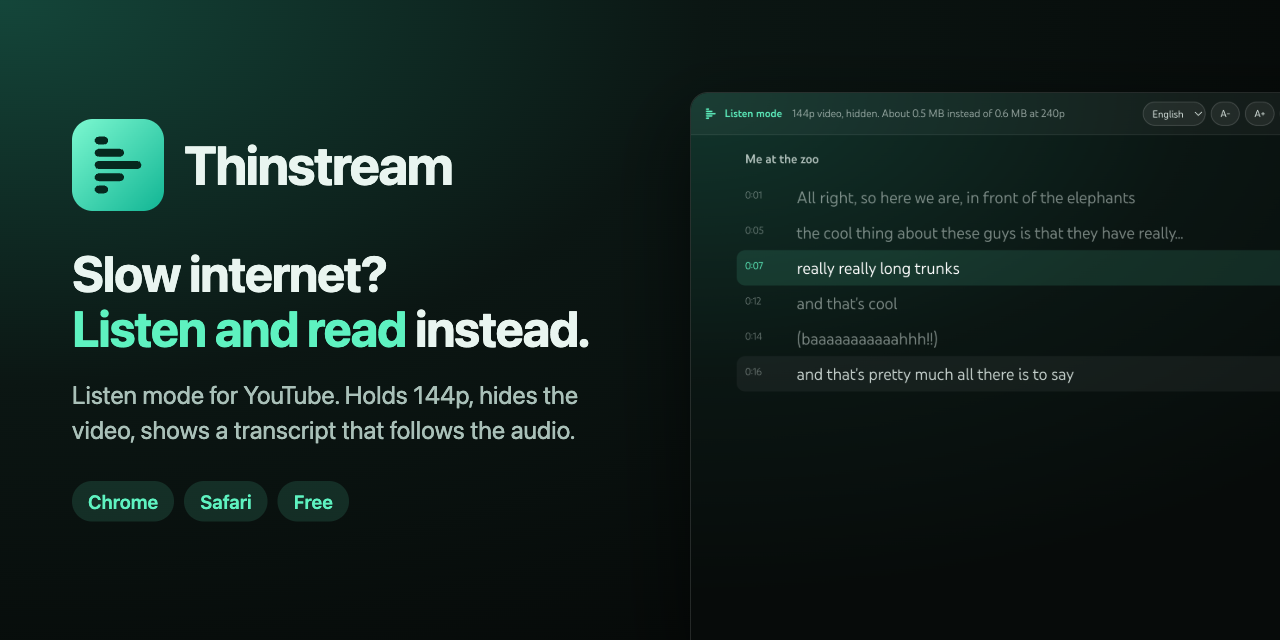
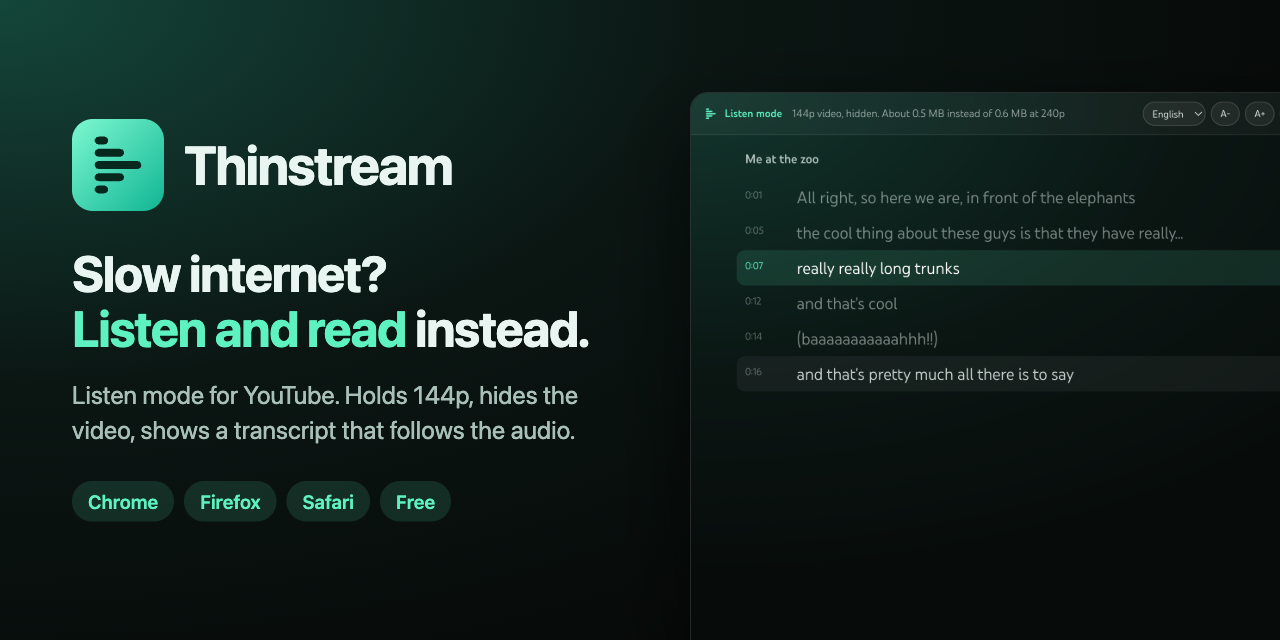
Add Firefox build
Same code with a Firefox manifest, made by scripts/build.sh.
Tested in Firefox 160. README, site and release notes updated.

Changed region(s): [[0.1562, 0.75, 0.375, 0.8125]]

diff --git a/docs/index.html b/docs/index.html
@@ -4,8 +4,8 @@
 <meta charset="utf-8">
 <meta name="viewport" content="width=device-width, initial-scale=1">
 <title>Thinstream: listen to YouTube and read the transcript on slow internet</title>
-<meta name="description" content="Free Chrome and Safari extension for slow internet. One click holds a YouTube video at 144p, hides it, and shows a transcript that follows the audio. No account, no tracking.">
-<meta name="keywords" content="YouTube audio only extension, YouTube transcript extension, YouTube data saver, listen to YouTube without video, YouTube slow internet, YouTube low bandwidth, Chrome extension, Safari extension, YouTube listen mode">
+<meta name="description" content="Free Chrome, Firefox and Safari extension for slow internet. One click holds a YouTube video at 144p, hides it, and shows a transcript that follows the audio. No account, no tracking.">
+<meta name="keywords" content="YouTube audio only extension, YouTube transcript extension, YouTube data saver, listen to YouTube without video, YouTube slow internet, YouTube low bandwidth, Chrome extension, Firefox add-on, Safari extension, YouTube listen mode">
 <meta name="author" content="Alireza Toghiani">
 <link rel="canonical" href="https://alireza12t.github.io/thinstream/">
 <link rel="icon" type="image/svg+xml" href="assets/logo.svg">
@@ -14,14 +14,14 @@
 <meta property="og:type" content="website">
 <meta property="og:site_name" content="Thinstream">
 <meta property="og:title" content="Thinstream: listen mode for YouTube">
-<meta property="og:description" content="On slow internet, press one button. The video drops to 144p and hides, and you get the audio with a transcript that follows along. Free for Chrome and Safari.">
+<meta property="og:description" content="On slow internet, press one button. The video drops to 144p and hides, and you get the audio with a transcript that follows along. Free for Chrome, Firefox and Safari.">
 <meta property="og:url" content="https://alireza12t.github.io/thinstream/">
 <meta property="og:image" content="https://alireza12t.github.io/thinstream/assets/og.png">
 <meta property="og:image:width" content="1280">
 <meta property="og:image:height" content="640">
 <meta name="twitter:card" content="summary_large_image">
 <meta name="twitter:title" content="Thinstream: listen mode for YouTube">
-<meta name="twitter:description" content="Audio plus a synced transcript when your internet is slow. Free for Chrome and Safari.">
+<meta name="twitter:description" content="Audio plus a synced transcript when your internet is slow. Free for Chrome, Firefox and Safari.">
 <meta name="twitter:image" content="https://alireza12t.github.io/thinstream/assets/og.png">
 
 <script type="application/ld+json">
@@ -30,9 +30,9 @@
   "@type": "SoftwareApplication",
   "name": "Thinstream",
   "alternateName": "Thinstream: Listen Mode for YouTube",
-  "description": "A free browser extension for Chrome and Safari that holds a YouTube video at 144p, hides the picture, and shows a transcript that follows the audio. Made for slow or metered internet.",
+  "description": "A free browser extension for Chrome, Firefox and Safari that holds a YouTube video at 144p, hides the picture, and shows a transcript that follows the audio. Made for slow or metered internet.",
   "applicationCategory": "BrowserApplication",
-  "operatingSystem": "Chrome, Edge, Brave, Safari on macOS",
+  "operatingSystem": "Chrome, Edge, Brave, Firefox, Safari on macOS",
   "softwareVersion": "1.0.0",
   "datePublished": "2026-11-12",
   "url": "https://alireza12t.github.io/thinstream/",
@@ -73,7 +73,7 @@
     { "@type": "Question", "name": "Does Thinstream collect data?",
       "acceptedAnswer": { "@type": "Answer", "text": "No. It makes no network requests of its own. Settings stay in your browser." } },
     { "@type": "Question", "name": "Which browsers does Thinstream work in?",
-      "acceptedAnswer": { "@type": "Answer", "text": "Chrome and other Chromium browsers such as Edge, Brave and Arc, and Safari on Mac through an Xcode project. An iPhone and iPad build is included but not yet tested on a device." } }
+      "acceptedAnswer": { "@type": "Answer", "text": "Chrome and other Chromium browsers such as Edge, Brave and Arc, Firefox 140 or newer, and Safari on Mac through an Xcode project. An iPhone and iPad build is included but not yet tested on a device." } }
   ]
 }
 </script>
@@ -139,9 +139,10 @@
 <header>
   <img class="logo" src="assets/logo.svg" width="84" height="84" alt="Thinstream logo">
   <h1>Listen to YouTube when your internet is slow</h1>
-  <p class="lead">Thinstream is a free extension for Chrome and Safari. Press one button and the video drops to 144p and hides. You get the audio and a transcript that follows along.</p>
+  <p class="lead">Thinstream is a free extension for Chrome, Firefox and Safari. Press one button and the video drops to 144p and hides. You get the audio and a transcript that follows along.</p>
   <div class="cta">
     <a class="btn primary" href="https://github.com/alireza12t/thinstream/releases/latest">Download for Chrome</a>
+    <a class="btn" href="https://github.com/alireza12t/thinstream#firefox">Firefox</a>
     <a class="btn" href="https://github.com/alireza12t/thinstream#safari-on-mac">Safari on Mac</a>
     <a class="btn" href="https://github.com/alireza12t/thinstream">GitHub</a>
   </div>
@@ -181,7 +182,7 @@
   <li>Click Load unpacked and pick the unzipped folder.</li>
   <li>Open a YouTube video and press the Thinstream button in the player.</li>
 </ol>
-<p>Works in Chrome, Edge, Brave and Arc. For Safari on Mac, build the Xcode project in the repo. <a href="https://github.com/alireza12t/thinstream#install">Full steps</a>.</p>
+<p>Works in Chrome, Edge, Brave and Arc. Firefox has its own zip in the same release. For Safari on Mac, build the Xcode project in the repo. <a href="https://github.com/alireza12t/thinstream#install">Full steps</a>.</p>
 
 <h2>How it compares</h2>
 <div class="scroll">

diff --git a/HISTORY.md b/HISTORY.md
@@ -4,7 +4,7 @@ Read this first. Update the open items when something finishes.
 
 ## What it is
 
-Browser extension for Chrome and Safari. On YouTube it holds the video at 144p, hides it, and shows a synced transcript in the player. For slow or metered internet. Repo: github.com/alireza12t/thinstream. Site: alireza12t.github.io/thinstream (GitHub Pages from `docs/`).
+Browser extension for Chrome, Firefox and Safari. On YouTube it holds the video at 144p, hides it, and shows a synced transcript in the player. For slow or metered internet. Repo: github.com/alireza12t/thinstream. Site: alireza12t.github.io/thinstream (GitHub Pages from `docs/`).
 
 ## State
 
@@ -19,12 +19,14 @@ Browser extension for Chrome and Safari. On YouTube it holds the video at 144p, 
 - **Safari does not support `"world": "MAIN"` in the manifest** (the converter warns). So `content.js` asks `background.js` to inject `page.js` with `scripting.executeScript`, and falls back to a script tag. `page.js` exits if it finds itself in the extension world.
 - **No innerHTML anywhere.** YouTube enforces Trusted Types.
 - **Safari project references `../../../extension`**, nothing is copied. New files under `extension/src` are picked up. The project file is the new `project.xcproj` JSON format.
+- **Firefox is the same code with a patched manifest**, made by `scripts/build.sh` into `dist/firefox/` and a zip: `background.scripts` instead of a service worker, plus a gecko id (`thinstream@alireza12t.github.io`), min version 140 and `data_collection_permissions: none`. Firefox supports `"world": "MAIN"`, so it takes the Chrome path. Version stayed 1.0.0 (Alireza did not ask for a bump); the Firefox zip was added to the v1.0.0 release.
 - The data estimate uses the byte sizes in the player response for that video. Baseline is the quality the player was on, else 720p.
 
 ## What was tested
 
 - Headless Chrome for Testing with the unpacked extension (`puppeteer-core`): button mount, 144p, panel, restore of quality and captions, popup, and a copy of the extension without the `world` key to exercise the Safari path. All passed.
 - Headless Chrome gets an empty caption response from YouTube (bot check), so the transcript was tested by running the same `page.js` and `content.js` on live YouTube in the Claude browser pane: transcript load, language switch, click to seek, video change, turn off. All passed.
+- Firefox 160 (test binary from `@puppeteer/browsers`, driven with `puppeteer-core`): add-on installs, button, 144p, hide, restore, transcript rendering, click to seek, text size all passed. `web-ext lint`: 0 errors. Popup not opened in Firefox. To launch Firefox from a sandboxed shell set `CFFIXED_USER_HOME` and `HOME` to a scratch folder, otherwise it dies with "Could not find profile folder".
 - Safari: `Thinstream (macOS)` and `Thinstream (iOS)` compile with `CODE_SIGNING_ALLOWED=NO`. **Not run inside Safari.**
 - m.youtube.com in mobile emulation: 144p, panel and the floating button work. The caption response came back empty in emulation, so the transcript on a real phone is unknown.
 
@@ -32,6 +34,7 @@ Browser extension for Chrome and Safari. On YouTube it holds the video at 144p, 
 
 - [ ] Run it in Safari on the Mac once (Xcode, Run, enable in Safari settings) and confirm the transcript loads.
 - [ ] Try the iOS build on a real iPhone. The panel is cramped at phone size, it probably wants to sit below the player.
+- [ ] Firefox: submit to addons.mozilla.org for signing so it installs for good. It is free but needs Alireza's Mozilla account. Until then it loads as a temporary add-on.
 - [ ] Chrome Web Store listing. Needs the one time $5 developer fee, so it is Alireza's call.
 - [ ] Upload `assets/social-preview.png` in the GitHub repo settings (Social preview). There is no API for it.
 - [ ] Demo video (separate session).
@@ -39,6 +42,6 @@ Browser extension for Chrome and Safari. On YouTube it holds the video at 144p, 
 
 ## Handy
 
-- `./scripts/build.sh` makes `dist/thinstream-chrome-<version>.zip`.
+- `./scripts/build.sh` makes the Chrome zip, the Firefox zip and `dist/firefox/`.
 - `./scripts/publish.sh` creates the repo, topics, Pages and the release. Safe to run again.
 - `node scripts/dev-server.mjs` serves the repo on localhost:8767 (also the `thinstream` entry in the parent folder's `.claude/launch.json`).

diff --git a/README.md b/README.md
@@ -6,7 +6,7 @@
 
 <p align="center">
   <b>Listen to YouTube and read the transcript when your internet is slow.</b><br>
-  A free browser extension for Chrome and Safari. One click drops the video to 144p, hides it, and shows a transcript that follows the audio.
+  A free browser extension for Chrome, Firefox and Safari. One click drops the video to 144p, hides it, and shows a transcript that follows the audio.
 </p>
 
 <p align="center">
@@ -67,6 +67,14 @@ No, and I would rather say so. YouTube's web player now gets audio and video thr
 
 It is not on the Chrome Web Store yet.
 
+### Firefox
+
+1. Download `thinstream-firefox-1.0.0.zip` from the [latest release](https://github.com/alireza12t/thinstream/releases/latest).
+2. Open `about:debugging#/runtime/this-firefox`.
+3. Click **Load Temporary Add-on** and pick the zip.
+
+Firefox removes a temporary add-on when it restarts, so you load it again next time. A permanent install needs Mozilla to sign it, and it is not on addons.mozilla.org yet. Needs Firefox 140 or newer.
+
 ### Safari on Mac
 
 Safari extensions ship inside a small Mac app, so this one is built with Xcode.
@@ -98,7 +106,7 @@ Checked on 2026-11-12 from each tool's own store page or site. If something here
 
 | Tool | Price | Browsers | Lowers data use | Hides the video | Transcript that follows the audio |
 |---|---|---|---|---|---|
-| **Thinstream** | Free | Chrome, Safari | Yes, holds 144p | Yes | Yes |
+| **Thinstream** | Free | Chrome, Firefox, Safari | Yes, holds 144p | Yes | Yes |
 | [Audio Only Youtube](https://chromewebstore.google.com/detail/audio-only-youtube/pkocpiliahoaohbolmkelakpiphnllog) | Free | Chrome | Aims for audio only | Yes | No |
 | [Music Mode for YouTube](https://chromewebstore.google.com/detail/music-mode-for-youtube/abbpaepbpakcpipajigmlpnhlnbennna) | Free | Chrome, Firefox | Lowers the quality of hidden videos | Yes | No |
 | [Vinegar](https://apps.apple.com/us/app/vinegar-tube-cleaner/id1591303229) | $1.99 | Safari on iPhone, iPad, Mac | Has an audio only option | Replaces the player | No, subtitles only |
@@ -167,7 +175,8 @@ Yes. Free for any noncommercial use. See [License](#license).
 - `extension/src/page.js` runs inside the YouTube page. It asks the player for its lowest quality with the player's own API, turns on the caption track so the player fetches it, and reads that response.
 - `extension/src/content.js` draws the panel and the button and keeps settings in sync.
 - `extension/popup/` is the toolbar popup.
-- `safari/` is the Xcode project that wraps the same `extension/` folder for Safari. Nothing is copied, both browsers run the same files.
+- `safari/` is the Xcode project that wraps the same `extension/` folder for Safari. Nothing is copied.
+- The Firefox build is the same files with a small manifest change, made by `scripts/build.sh`. All three browsers run the same code.
 
 When you turn listen mode off, your earlier quality setting and caption state are put back.
 
@@ -177,7 +186,7 @@ When you turn listen mode off, your earlier quality setting and caption state ar
 ./scripts/build.sh
 ```
 
-That writes `dist/thinstream-chrome-1.0.0.zip`. There is no build step for the code itself. It is plain JavaScript with no dependencies.
+That writes `dist/thinstream-chrome-1.0.0.zip`, `dist/thinstream-firefox-1.0.0.zip` and the unpacked Firefox build in `dist/firefox/`. There is no build step for the code itself. It is plain JavaScript with no dependencies.
 
 For Safari, open the Xcode project as described in [Install](#install).
 
@@ -185,6 +194,7 @@ For Safari, open the Xcode project as described in [Install](#install).
 
 - Chrome for Testing with the real extension loaded: button, 144p, hide, restore, popup, and the Safari style loading path.
 - The same code on live YouTube in a normal browser session: transcript loading, language switch, click to seek, moving to another video.
+- Firefox 160 with the real add-on loaded: button, 144p, hide, restore, the transcript view, click to seek and text size. Mozilla's `web-ext lint` reports no errors. The popup was not opened in Firefox.
 - Safari: the Mac and iOS apps compile. The extension has not been run inside Safari yet.
 
 ## License

diff --git a/scripts/release-notes.md b/scripts/release-notes.md
@@ -17,6 +17,12 @@ When the internet is slow, press one button in the YouTube player. The video dro
 2. Open `chrome://extensions` and turn on Developer mode.
 3. Click Load unpacked and pick the unzipped folder.
 
+**Install on Firefox**
+
+1. Download `thinstream-firefox-1.0.0.zip` below.
+2. Open `about:debugging#/runtime/this-firefox`.
+3. Click Load Temporary Add-on and pick the zip. Firefox removes it on restart, so load it again next time. Needs Firefox 140 or newer.
+
 **Safari**
 
 Build the Xcode project in `safari/`. Steps are in the [README](https://github.com/alireza12t/thinstream#safari-on-mac). The Mac and iOS apps compile. The extension has not been run inside Safari yet.

diff --git a/CHANGELOG.md b/CHANGELOG.md
@@ -12,3 +12,4 @@ First release.
 - Option to hide recommendations and comments.
 - Puts your quality and caption settings back when listen mode is turned off.
 - Chrome extension (Manifest V3) and a Safari Xcode project for Mac and iOS.
+- Firefox build added to the 1.0.0 release later the same day. Same code, with a Firefox manifest.
